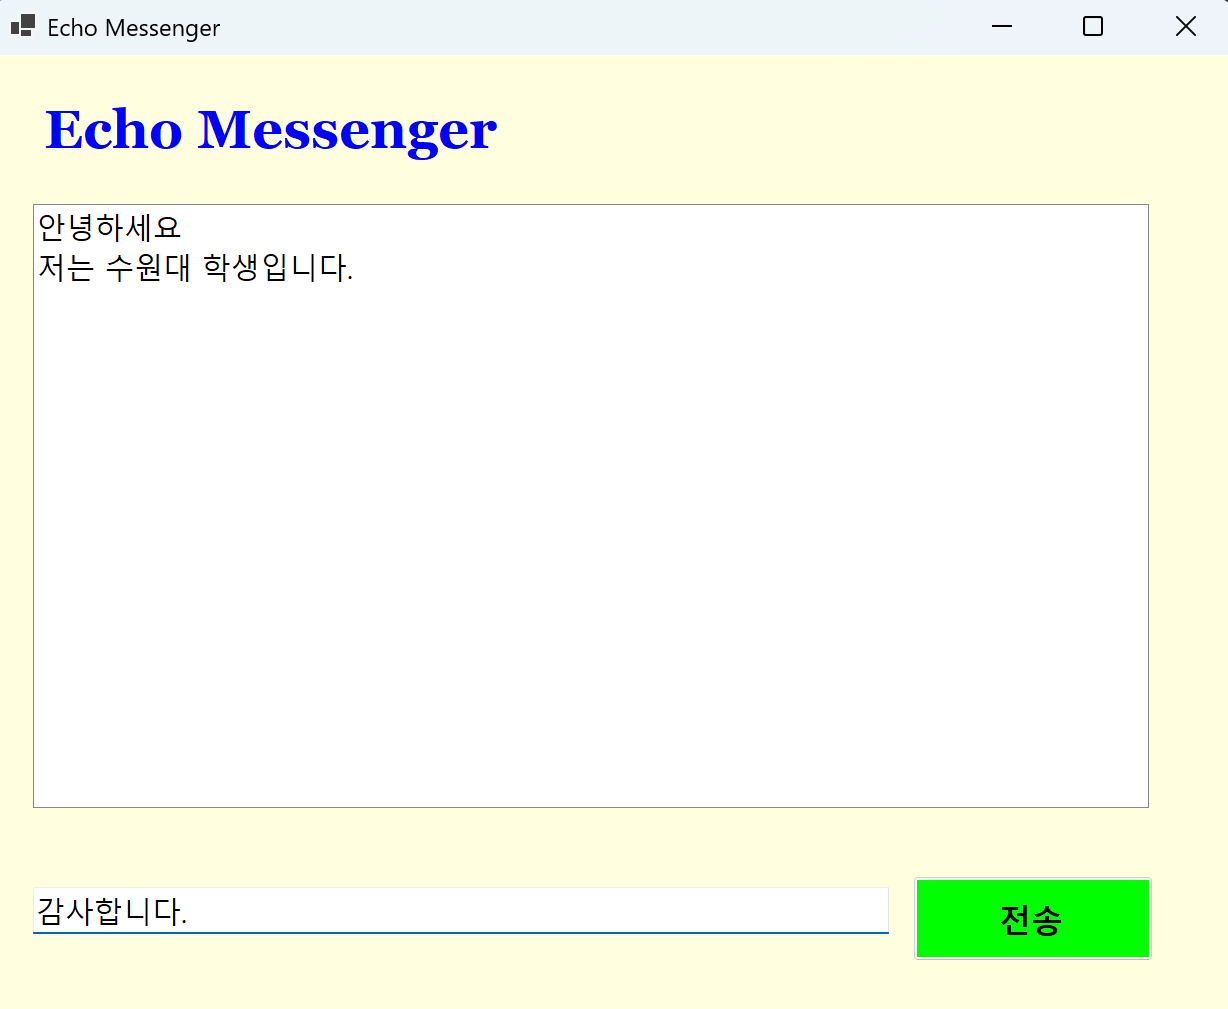
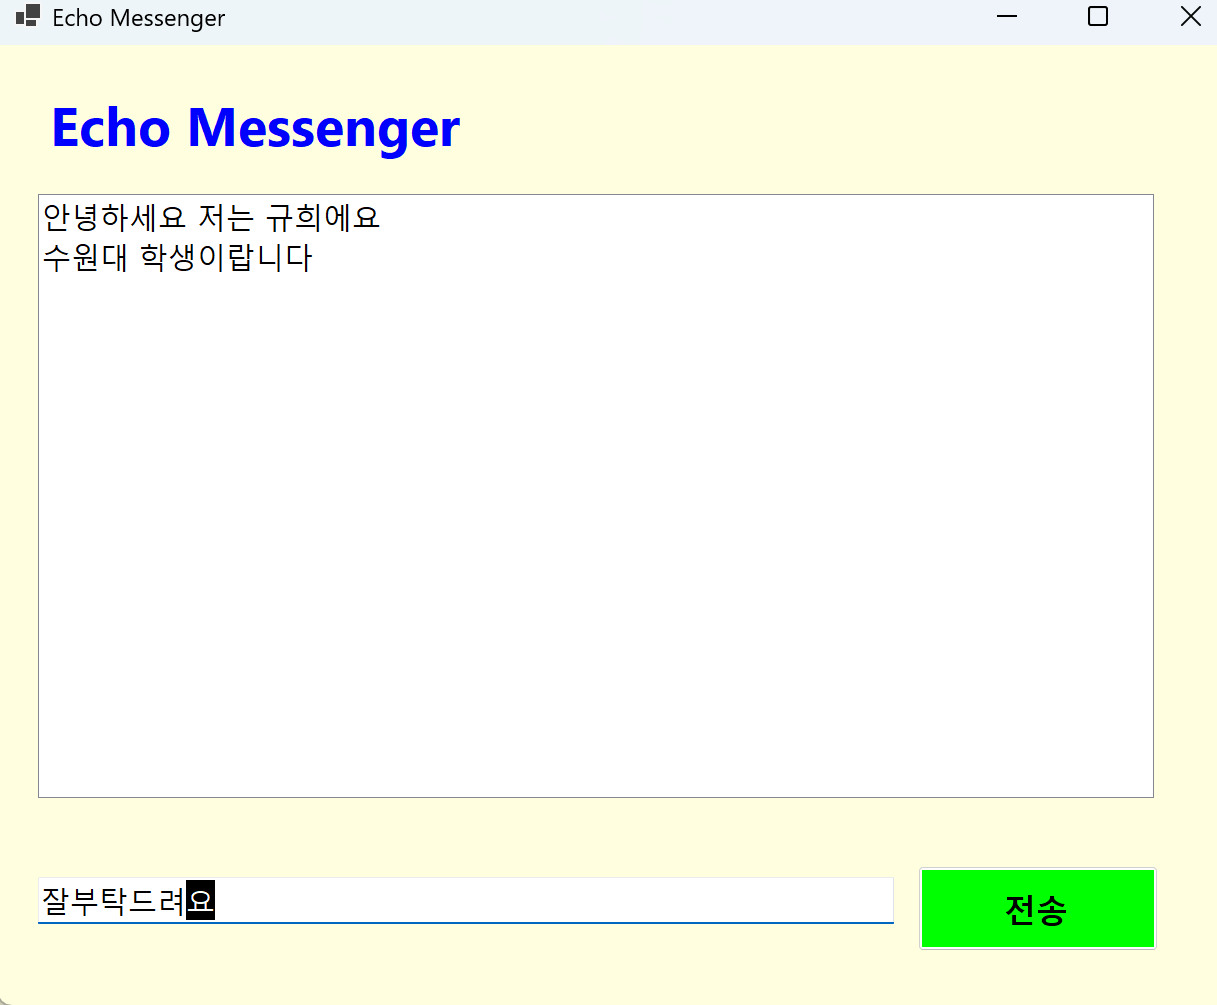
img 디렉터리에 과제1 사진 추가.

Changed region(s): [[0.0, 0.0925, 0.968, 0.802], [0.0, 0.8637, 0.968, 0.9562], [0.0, 0.0, 1.0, 0.0617]]

diff --git a/Form1.Designer.cs b/Form1.Designer.cs
@@ -26,7 +26,7 @@ namespace EchoMessenger
             // lblTitle
             // 
             lblTitle.AutoSize = true;
-            lblTitle.Font = new Font("Georgia", 20F, FontStyle.Bold);
+            lblTitle.Font = new Font("Segoe UI", 20F, FontStyle.Bold);
             lblTitle.ForeColor = Color.Blue;
             lblTitle.Location = new Point(40, 43);
             lblTitle.Margin = new Padding(6, 0, 6, 0);
